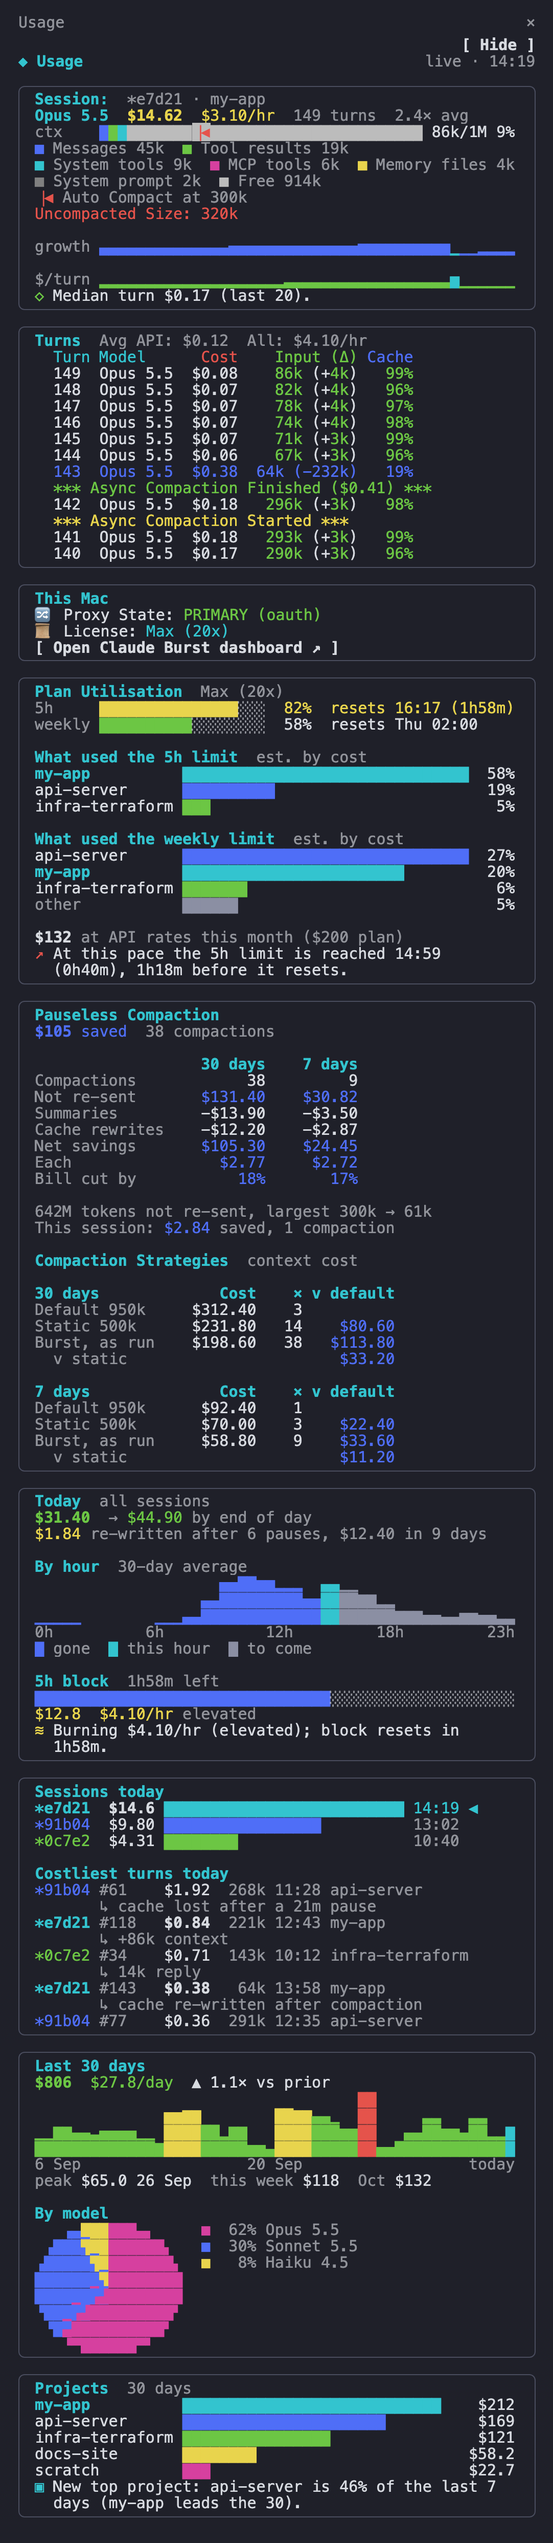
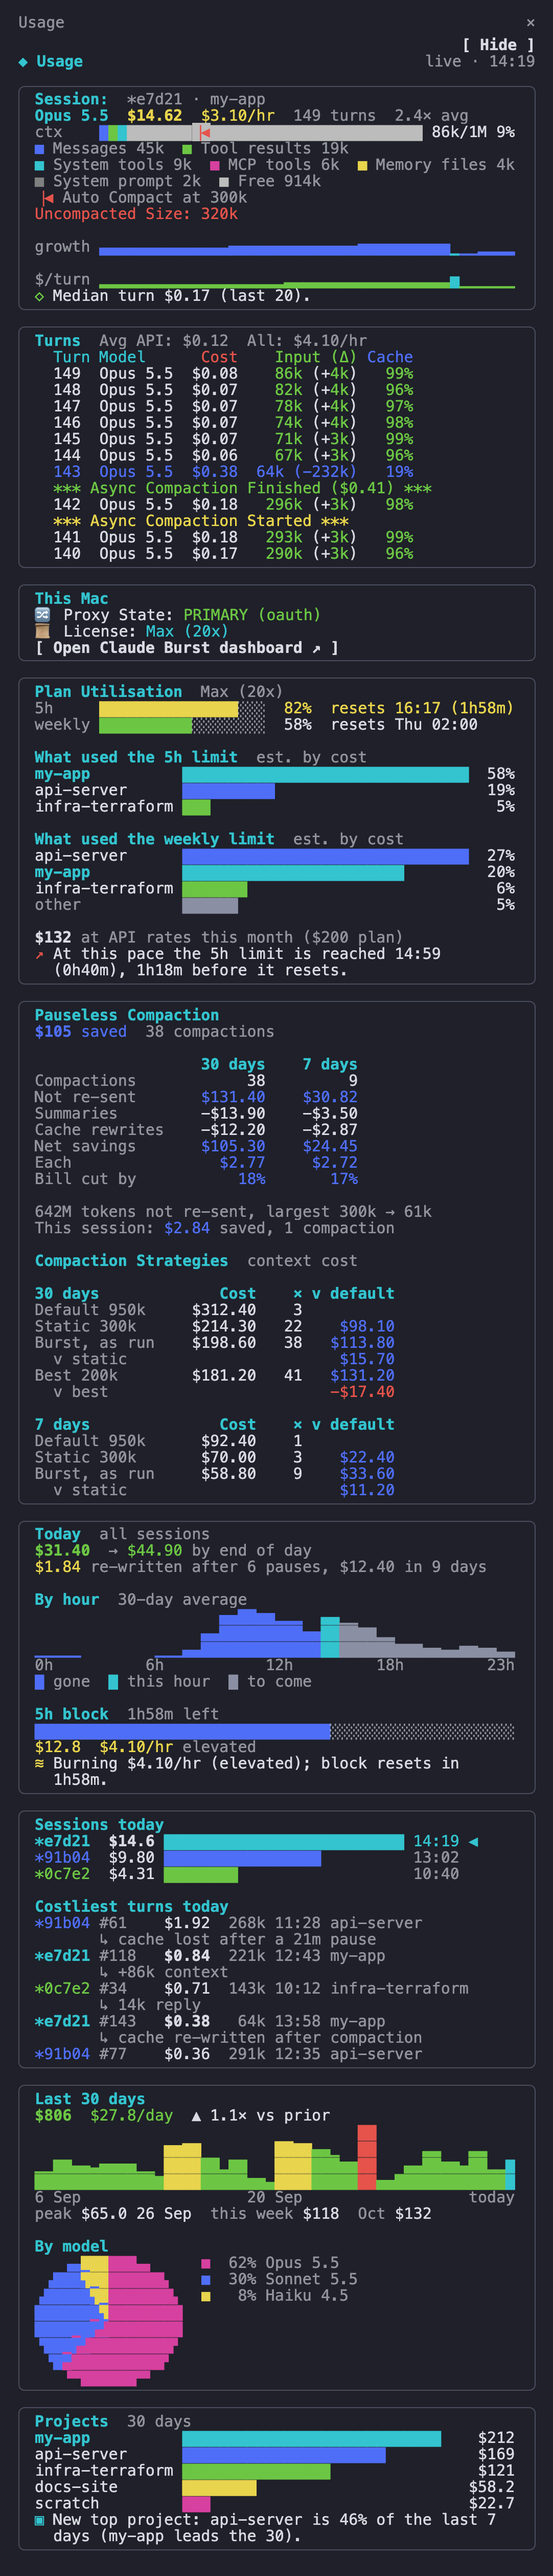
Compaction Strategies: the best fixed size in hindsight, and Burst against it
Burst now replays every size from 100k to 500k and names the cheapest. The
table gains a Best row and a "v best" line under the window's table, shown
only when Burst reports one. Static is 300k in Intelligent Compaction Mode.

Claude-Session: https://claude.ai/code/session_01WeFFCejvYqYZRxBmQn1kGn

diff --git a/mods/usage-panel/tests/usage-panel.test.ts b/mods/usage-panel/tests/usage-panel.test.ts
@@ -740,6 +740,37 @@ test('Compaction Strategies sets Claude Code alone, a static limit and Burst as 
   expect((await ui.find({ type: 'Text', text: '   $927.25' })).props.color).toBeUndefined()
 })
 
+test('Compaction Strategies names the best fixed size in hindsight and how far Burst was from it', async ($, on) => {
+  stubs(on, [doc({ burst: BURST })])
+  const way = (usd: number, compactions: number) => ({ usd, compactions })
+  const daily = [{ date: '2026-10-05', requests: 50, default: way(10, 0), fixed: way(7, 1), actual: way(8, 2) }]
+  const base = { fixed_at: 300_000, default_at: 950_000, requests: 500, default: way(969, 5), fixed: way(568, 67), actual: way(622.5, 90), daily, repos: [] }
+  // Burst cost $131.50 more than the best single size would have: red.
+  dashboard(on, { state: { context: { window_days: 7, compaction_strategies: { ...base, cheapest: { at: 200_000, ...way(491, 181) } } } } })
+  await start($)
+  const ui = await $.ui.mount(PANE)
+  const drawn = JSON.stringify(await ui.drawn())
+  const card = drawn.slice(drawn.indexOf('"Compaction Strategies"'), drawn.indexOf('"Today"'))
+  expect(card).toContain('"Static 300k   "')
+  expect(card).toContain('"Best 200k     "')
+  expect(card).toContain('"  181"')
+  expect(card).toContain('"  v best      "')
+  expect((await ui.find({ type: 'Text', text: '   $478.00' })).props.color).toBe('blue')
+  expect((await ui.find({ type: 'Text', text: '  -$131.50' })).props.color).toBe('red')
+})
+
+test('Compaction Strategies has no best size from a Burst that does not report one', async ($, on) => {
+  stubs(on, [doc({ burst: BURST })])
+  const way = (usd: number, compactions: number) => ({ usd, compactions })
+  const daily = [{ date: '2026-10-05', requests: 50, default: way(10, 0), fixed: way(7, 1), actual: way(8, 2) }]
+  dashboard(on, { state: { context: { window_days: 7, compaction_strategies: { fixed_at: 500_000, default_at: 950_000, requests: 500, default: way(969, 5), fixed: way(568, 67), actual: way(622.5, 90), daily, repos: [] } } } })
+  await start($)
+  const ui = await $.ui.mount(PANE)
+  const drawn = JSON.stringify(await ui.drawn())
+  expect(drawn).toContain('"Burst, as run "')
+  expect(drawn).not.toContain('v best')
+})
+
 test('without Burst, or before Burst has compacted anything, there is no Pauseless Compaction card', async ($, on) => {
   stubs(on, [doc({ burst: BURST })])
   dashboard(on, { state: { context: { compaction_stats: { compactions: 0, sessions: [], daily: [] } } } })

diff --git a/mods/usage-panel/hooks/register.js b/mods/usage-panel/hooks/register.js
@@ -491,6 +491,8 @@ async function readExtras($) {
       days: (state.context.window_days > 0 && state.context.window_days) || 7,
       defaultAt: strat.default_at || 0, fixedAt: strat.fixed_at || 0,
       def: way(strat.default), fixed: way(strat.fixed), actual: way(strat.actual),
+      // The cheapest of every fixed size Burst replayed (newer Bursts only).
+      best: strat.cheapest && strat.cheapest.at > 0 && strat.cheapest.usd > 0 ? { at: strat.cheapest.at, ...way(strat.cheapest) } : null,
       daily: (Array.isArray(strat.daily) ? strat.daily : []).filter((x) => x && typeof x.date === 'string').map((x) => {
         const d = way(x.default), f = way(x.fixed), a = way(x.actual)
         return { d: x.date, defUsd: d.usd, defN: d.n, fixedUsd: f.usd, fixedN: f.n, actualUsd: a.usd, actualN: a.n }
@@ -1216,7 +1218,7 @@ function strategiesSection(Box, T, W, extra) {
   const lw = 14, cw = 10, nw = 5
   // One table per span: a row a strategy with its cost, its compactions (×)
   // and what it saved against Claude Code alone; then Burst against static.
-  const table = (days, def, fixed, actual) => {
+  const table = (days, def, fixed, actual, best) => {
     const row = (label, cost, n, saved) => Box({ flexDirection: 'row', children: [
       T(pad(label, lw), { dimColor: true }), T(lpad(cost, cw)), T(lpad(n, nw)),
       T(lpad(saved, cw), { color: tone(saved) }),
@@ -1225,8 +1227,10 @@ function strategiesSection(Box, T, W, extra) {
     out.push(Box({ flexDirection: 'row', marginTop: 1, children: [T(pad(days + ' days', lw), { bold: true, color: ACCENT }), ...[['Cost', cw], ['×', nw], ['v default', cw]].map(([h, n]) => T(lpad(h, n), { bold: true, color: ACCENT }))] }))
     out.push(way(at('Default', s.defaultAt), def), way(at('Static', s.fixedAt), fixed, def), way('Burst, as run', actual, def))
     out.push(row('  v static', '', '', money(fixed.usd - actual.usd, 2)))
+    // The best fixed size in hindsight, and how far from it Burst was.
+    if (best) out.push(way(at('Best', best.at), best, def), row('  v best', '', '', money(best.usd - actual.usd, 2)))
   }
-  table(s.days, s.def, s.fixed, s.actual)
+  table(s.days, s.def, s.fixed, s.actual, s.best)
   if (w) table(WEEK, { usd: w.defUsd, n: w.defN }, { usd: w.fixedUsd, n: w.fixedN }, { usd: w.actualUsd, n: w.actualN })
   return out
 }

diff --git a/README.md b/README.md
@@ -235,12 +235,14 @@ A table, not a chart: one column for Burst's window and, where that is longer th
 | On screen | What it is |
 |---|---|
 | `Default 950k` | Claude Code alone: no Burst, so it compacts only near the end of the model's window. |
-| `Static 500k` | A fixed Compact at, the one set on Burst's dashboard. The label carries its real value. |
+| `Static 300k` | One fixed Compact at for every repository: the one set on Burst's dashboard in its fixed mode, and 300k, a size safe for all, in Intelligent Compaction Mode. The label carries its real value. |
 | `Burst, as run` | What Burst really sent, with whatever mode was on each day (Intelligent Compaction Mode included). |
 | `Cost` | The context cost that way. |
 | `×` | How many compactions that way makes. |
 | `v default` | What that way saves against `Default`: its cost taken from Default's. Blue, or red with a minus where it costs more. |
 | `v static` | `Burst, as run` against `Static`: what Burst's own choice of limit was worth over the fixed one. |
+| `Best 200k` | The one fixed size that would have cost least, of every size from 100k to 500k that Burst replays. Known only in hindsight. Burst's window only; needs a Burst that reports it. |
+| `v best` | `Burst, as run` against `Best`: how far Burst was from the best it could have done with one size. Red with a minus while it costs more, the figure Intelligent Compaction Mode is there to close. |
 
 One table for Burst's window and, where that is longer than a week, one for the last 7 days.
 
